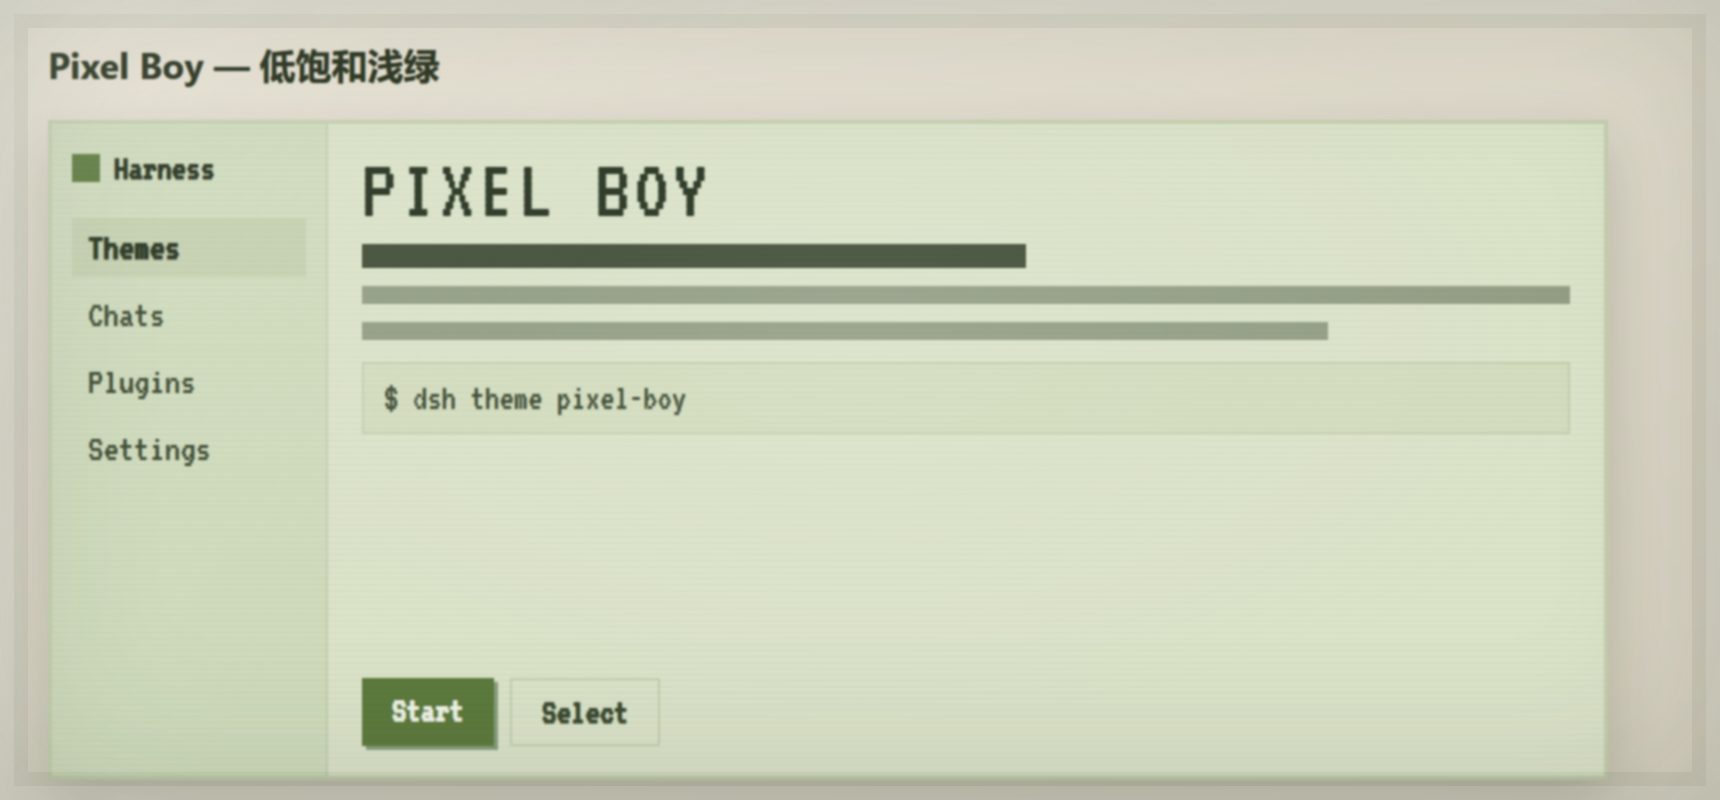
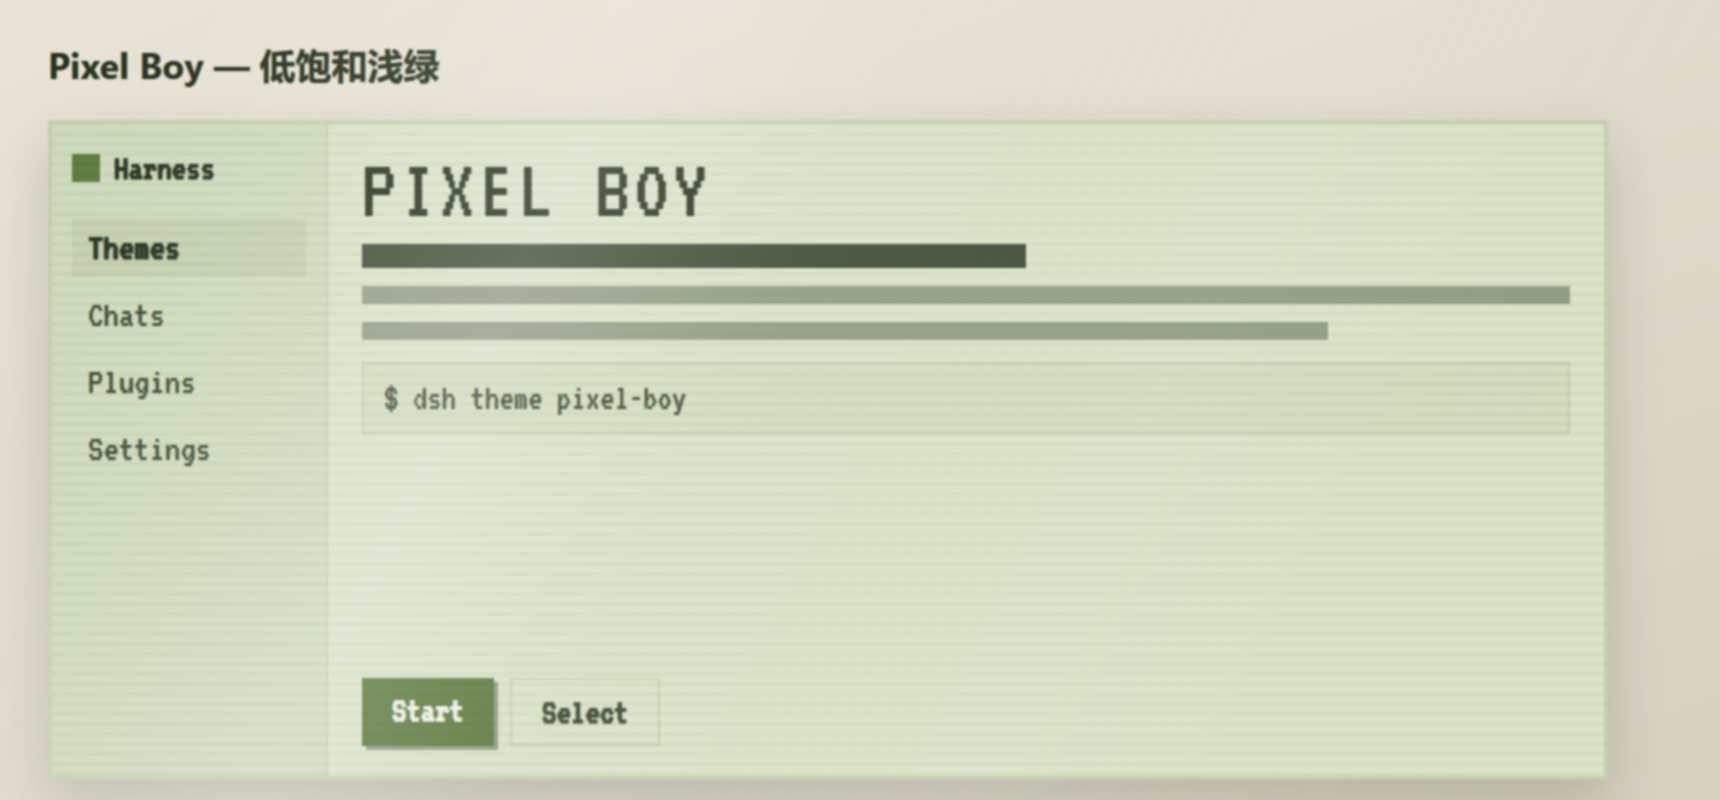
feat(pixel-boy): finalize muted LCD with double glass reflection

diff --git a/client.js b/client.js
@@ -37,7 +37,7 @@ window.__ModuleLoader__.load({
   "pixel-mono.name": "Retro TV",
   "pixel-mono.desc": "Old black-and-white television: high-contrast grayscale, scanlines, film grain and a rounded CRT screen.",
   "pixel-boy.name": "Pixel Boy",
-  "pixel-boy.desc": "Muted pale-green handheld LCD with soft blur, thick-glass sheen and scanlines."
+  "pixel-boy.desc": "Muted pale-green handheld LCD with soft blur, double glass reflections and scanlines."
 };
     const ZH = {
   "label": "复古像素主题",
@@ -69,7 +69,7 @@ window.__ModuleLoader__.load({
   "pixel-mono.name": "复古黑白电视",
   "pixel-mono.desc": "复古旧式黑白电视：高对比灰阶、扫描线、胶片颗粒与圆角 CRT 屏。",
   "pixel-boy.name": "像素掌机",
-  "pixel-boy.desc": "低饱和浅绿掌机液晶屏：柔和模糊、厚玻璃质感与扫描线。"
+  "pixel-boy.desc": "低饱和浅绿掌机液晶屏：柔和模糊、双层玻璃反射与扫描线。"
 };
 
     const STYLES = [
@@ -647,7 +647,7 @@ window.__ModuleLoader__.load({
 
[1 lines of base64/hex data omitted]
 
[2 lines of base64/hex data omitted]
 
     function readStored() {
       try {

diff --git a/README.md b/README.md
@@ -17,7 +17,7 @@
 | **冰蓝屏 Ice CRT** | 清冷的冰蓝 CRT 荧光 |
 | **霓虹品红 Synthwave** | 品红霓虹的蒸汽波风 |
 | **复古黑白电视 Retro TV** | 复古旧式黑白电视：灰阶、粗扫描线、胶片颗粒、圆角 CRT 屏框 |
-| **像素掌机 Pixel Boy** | 低饱和浅绿液晶屏：柔和模糊、厚玻璃质感、扫描线、像素字体 |
+| **像素掌机 Pixel Boy** | 低饱和浅绿液晶屏：柔和模糊、双层玻璃反射、扫描线、像素字体 |
 | **暮色沙丘 Sunset Dune** | 琥珀→玫瑰→暮紫的黄昏渐变，柔和暖光 |
 
 ## 工作原理

diff --git a/README.en.md b/README.en.md
@@ -17,7 +17,7 @@ Open it to restyle the entire application with one of twelve visual styles (seve
 | **Ice CRT** | Cool cyan CRT glow |
 | **Synthwave** | Hot magenta vaporwave neon |
 | **Retro TV** | Old black-and-white television: grayscale palette, thick scanlines, film grain, rounded CRT frame |
-| **Pixel Boy** | Muted pale-green LCD: soft blur, thick-glass sheen, scanlines, pixel font |
+| **Pixel Boy** | Muted pale-green LCD: soft blur, double glass reflections, scanlines, pixel font |
 | **Sunset Dune** | Dusk gradient of amber, rose and violet — soft warm glow |
 
 ## How it works
